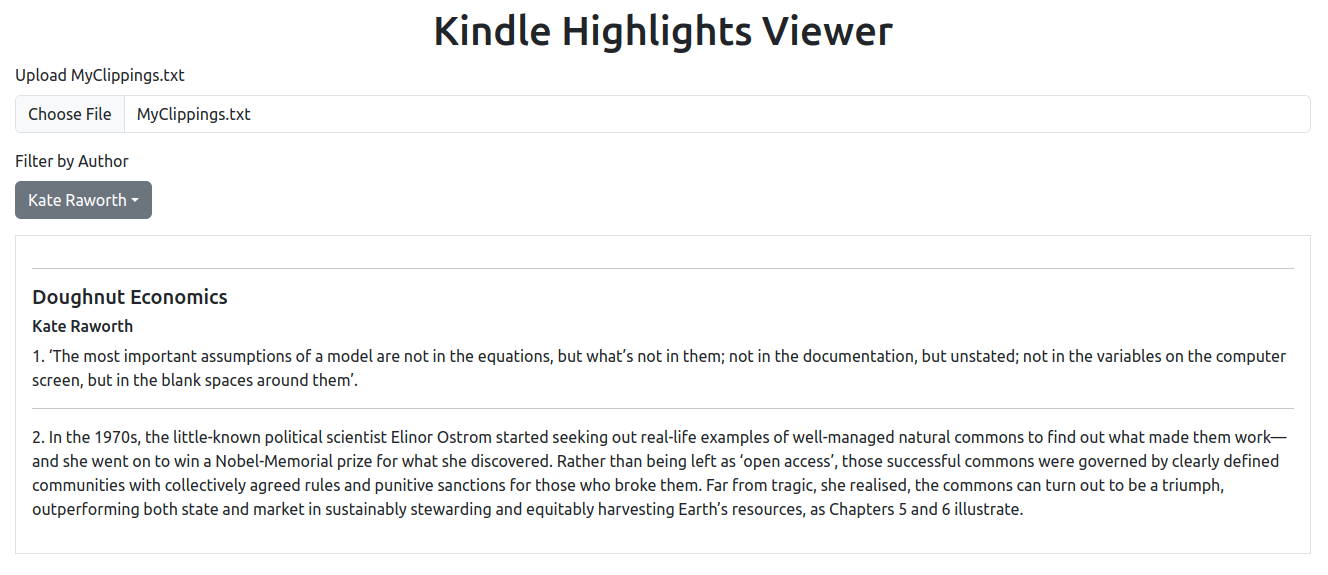
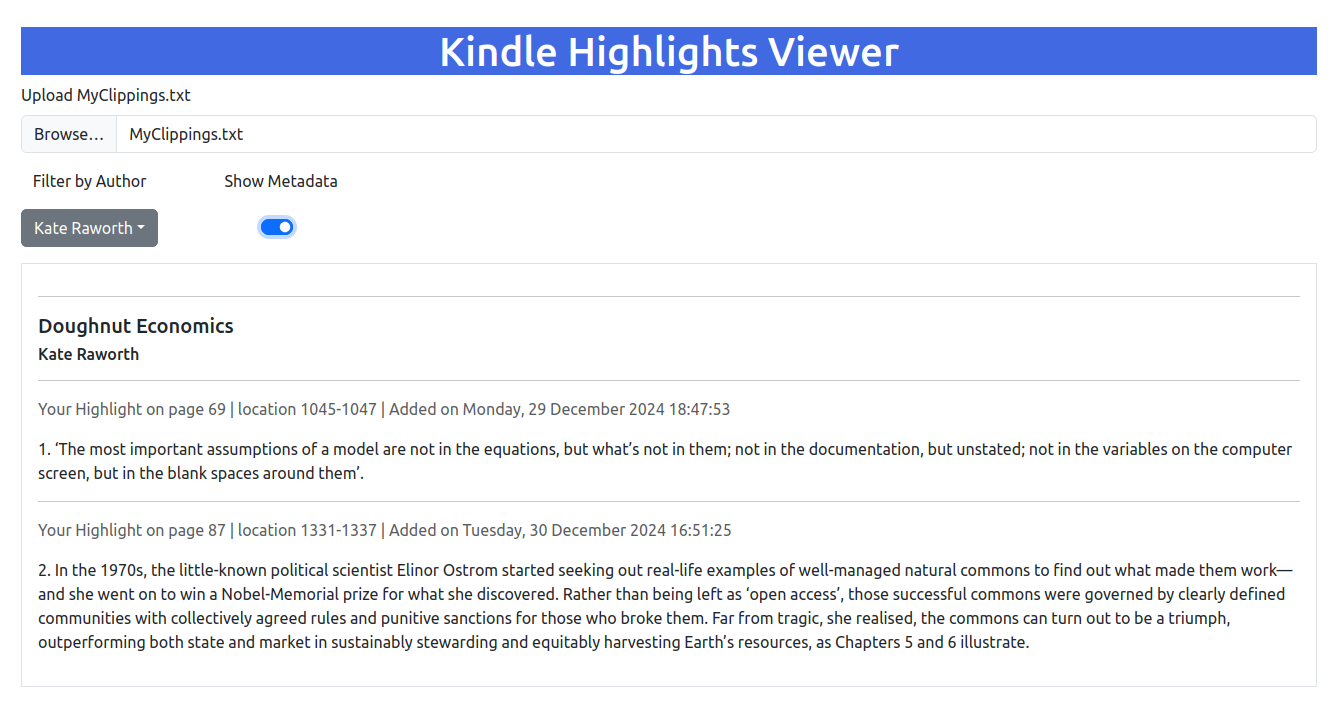
update README

diff --git a/README.md b/README.md
@@ -11,7 +11,7 @@ Browse clippings (highlights) saved from your Kindle eReader.
 
 ## To do
 
-- Toggle displaying location and date
+- ~~Toggle displaying location and dateToggle displaying location and date~~
 - Share to Bluesky
 - Delete clipping
   - Confirmation window, don't ask again checkbox
@@ -22,3 +22,17 @@ Browse clippings (highlights) saved from your Kindle eReader.
 - Search clippings
 - Select clippings
   - Display only selected clippings
+
+## Changelog
+
+### [0.2.0] - 2025-01-04
+
+**Added**
+
+- **Metadata Toggle**: Toggle the visibility of the clipping's page, location, date, and time.
+
+### [0.1.0] - 2025-01-01
+
+**Added**
+
+- Initial release of the project.
